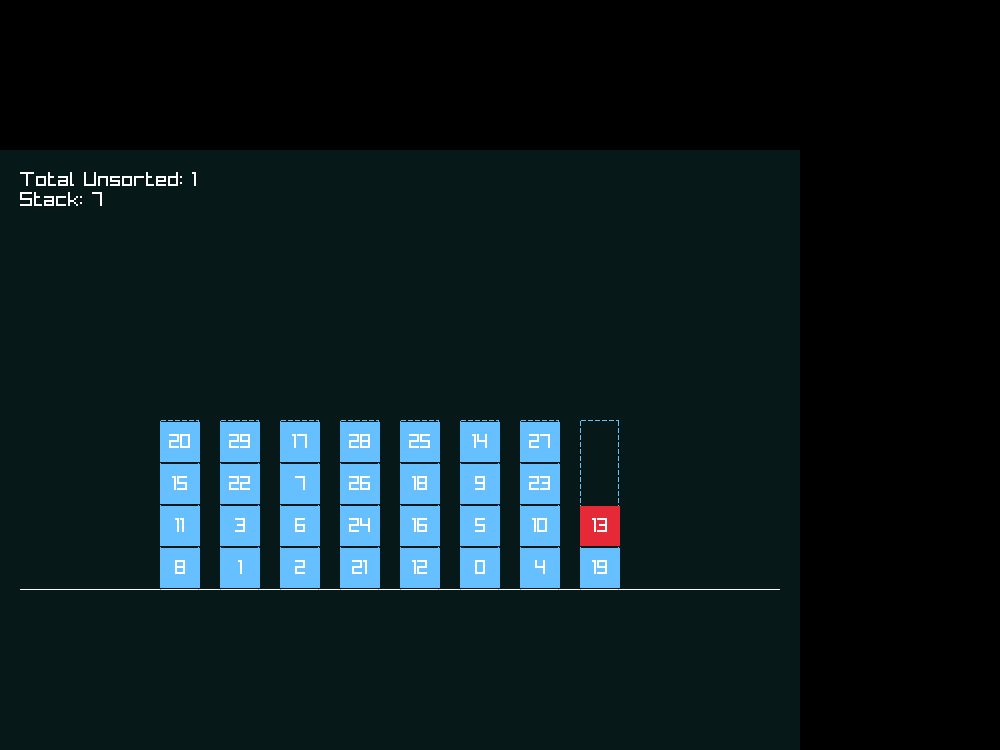
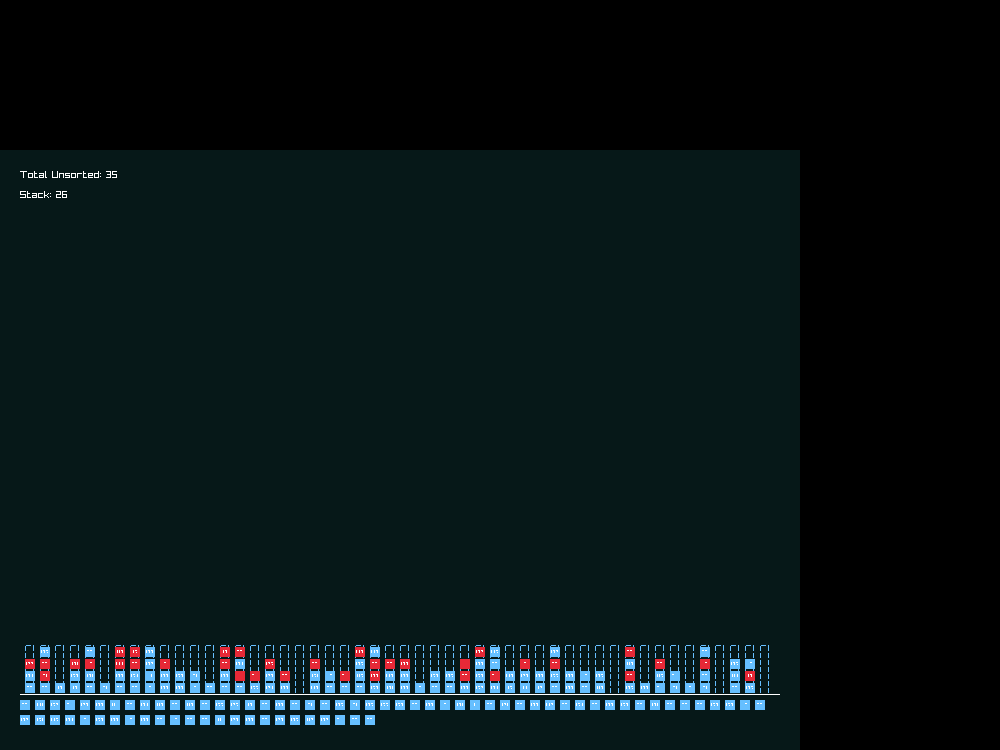
norm rew

Changed region(s): [[0.155, 0.552, 0.62, 0.7973], [0.0, 0.8587, 0.775, 0.9813], [0.0, 0.2147, 0.186, 0.276]]

diff --git a/pufferlib/ocean/stacking/stacking.h b/pufferlib/ocean/stacking/stacking.h
@@ -54,10 +54,10 @@ typedef struct {
 }ContainerStacking;
 
 void add_log(ContainerStacking* env) {
-    env->log.perf += (env->rewards[0] > 0) ? 1 : 0;
-    env->log.score += env->next_container - env->unsorted - env->num_invalids;;
+    env->log.perf  += (env->rewards[0] > 0) ? 1 : 0;
+    env->log.score += (env->tick >= env->max_ep_steps) ? -500 : env->next_container - env->unsorted - env->num_invalids;
     env->log.episode_length += env->tick;
-    env->log.episode_return += env->next_container - env->unsorted - env->num_invalids;
+    env->log.episode_return += (env->tick >= env->max_ep_steps) ? -500 : env->next_container - env->unsorted - env->num_invalids;  
     env->log.unsorteds += (float) env->unsorted;
     env->log.num_invalids += (float) env->num_invalids;
     env->log.n++;
@@ -284,7 +284,7 @@ void c_step(ContainerStacking *env) {
 
     if (env->tick >= env->max_ep_steps) {
     env->terminals[0] = 1;
-    env->rewards[0] = env->reward_max_breach; //penalises for total poss US - 1  to avoid it cheating
+    env->rewards[0] = -1.0f; //penalises for total poss -1 to avoid it cheating
     add_log(env);
     c_reset(env);
     return;
@@ -293,8 +293,8 @@ void c_step(ContainerStacking *env) {
     // Check if last container has been placed
     if (env->next_container >= env->num_containers) {
         env->terminals[0] = 1;
-        env->rewards[0] = 10.0f; //penalise for unsorted every turn for agent learning but a bonus for finishing
-        env->rewards[0] -= env->unsorted;
+        env->rewards[0] = 1.0f; //bonus for finishing, is this learnable tho since no signal that its near to finishing...
+        //env->rewards[0] -= env->unsorted; //get rid of this since we are noramalising rewards -1 to 1 and we penalise for unsorted each step
         add_log(env);
         c_reset(env);
         return;
@@ -307,7 +307,7 @@ void c_step(ContainerStacking *env) {
 
     if (stack < 0 || stack >= env->num_stacks)  { //shouldn't ever hit this
         env->terminals[0] = 1;
-        env-> rewards[0] = -100.0f;
+        env-> rewards[0] = -1.0f;
         printf("ENV ACTION ERROR HIT");
         fflush(stdout);
         add_log(env);
@@ -318,8 +318,8 @@ void c_step(ContainerStacking *env) {
     // Check if stack is valid
     if (!free_space(env, stack)){
         //env->terminals[0] = 1;
-        env->rewards[0] = -1.0f; // neg reward for not placing a container
-        env->log.num_invalids += 1.0f;
+        env->rewards[0] = -0.2f; // neg reward for not placing a container
+        env->num_invalids += 1.0f;
         //if (env->reset_max_breach) {
         //c_reset(env);
     //}
@@ -343,11 +343,11 @@ void c_step(ContainerStacking *env) {
     generate_obs(env);
 
     // Set reward 
-    env-> rewards[0] = (float) (old_unsorted - env->unsorted); // effectively -1 for placing an US
-    //printf("old unsorted %d, new unsorted %d\n", old_unsorted, env->unsorted);
-    //fflush(stdout);
+    env-> rewards[0] = (float) ((old_unsorted - env->unsorted)/10); // effectively -0.1 for placing an US
+    printf("old unsorted %d, new unsorted %d\n", old_unsorted, env->unsorted);
+    fflush(stdout);
 
-    env->rewards[0] += 1.0f; //one reward for placing a container
+    //env->rewards[0] += 0.1f; // reward for placing a container
 
     /* no termination; step continues */
 }
